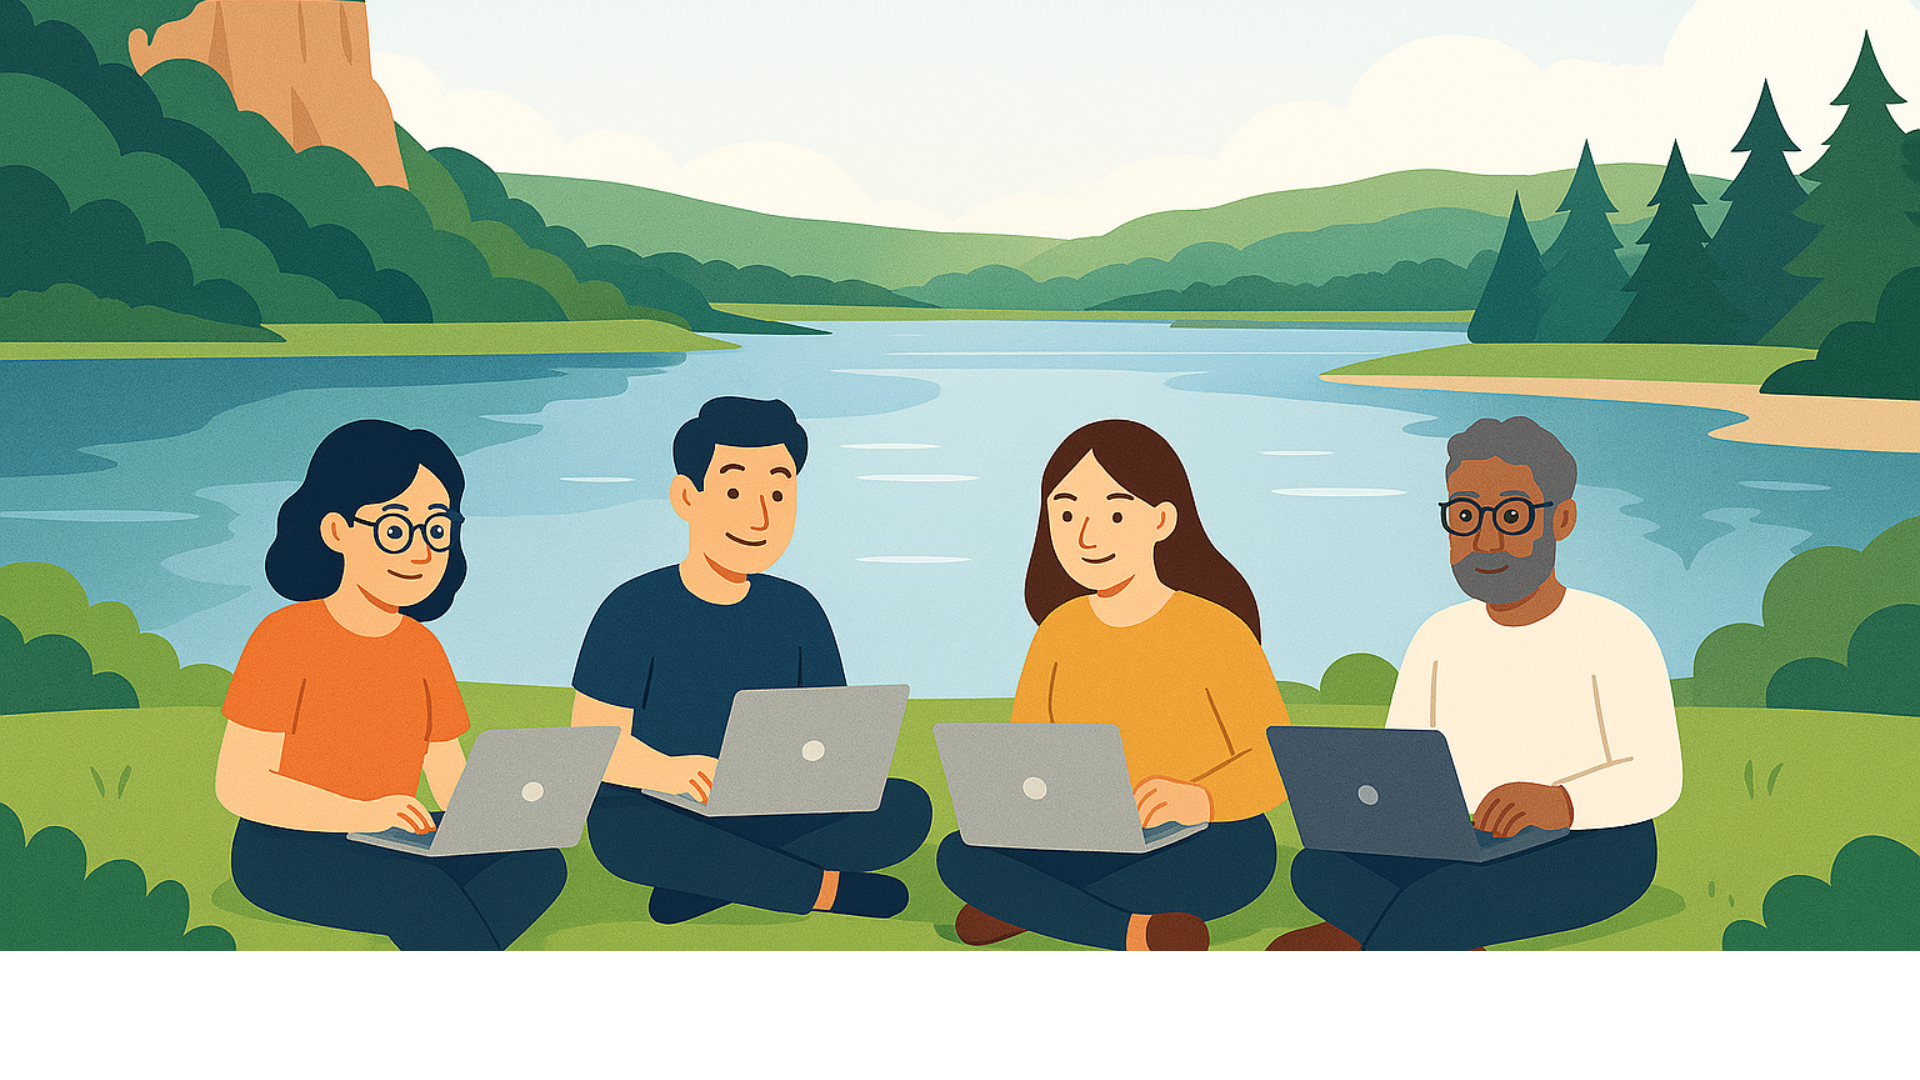
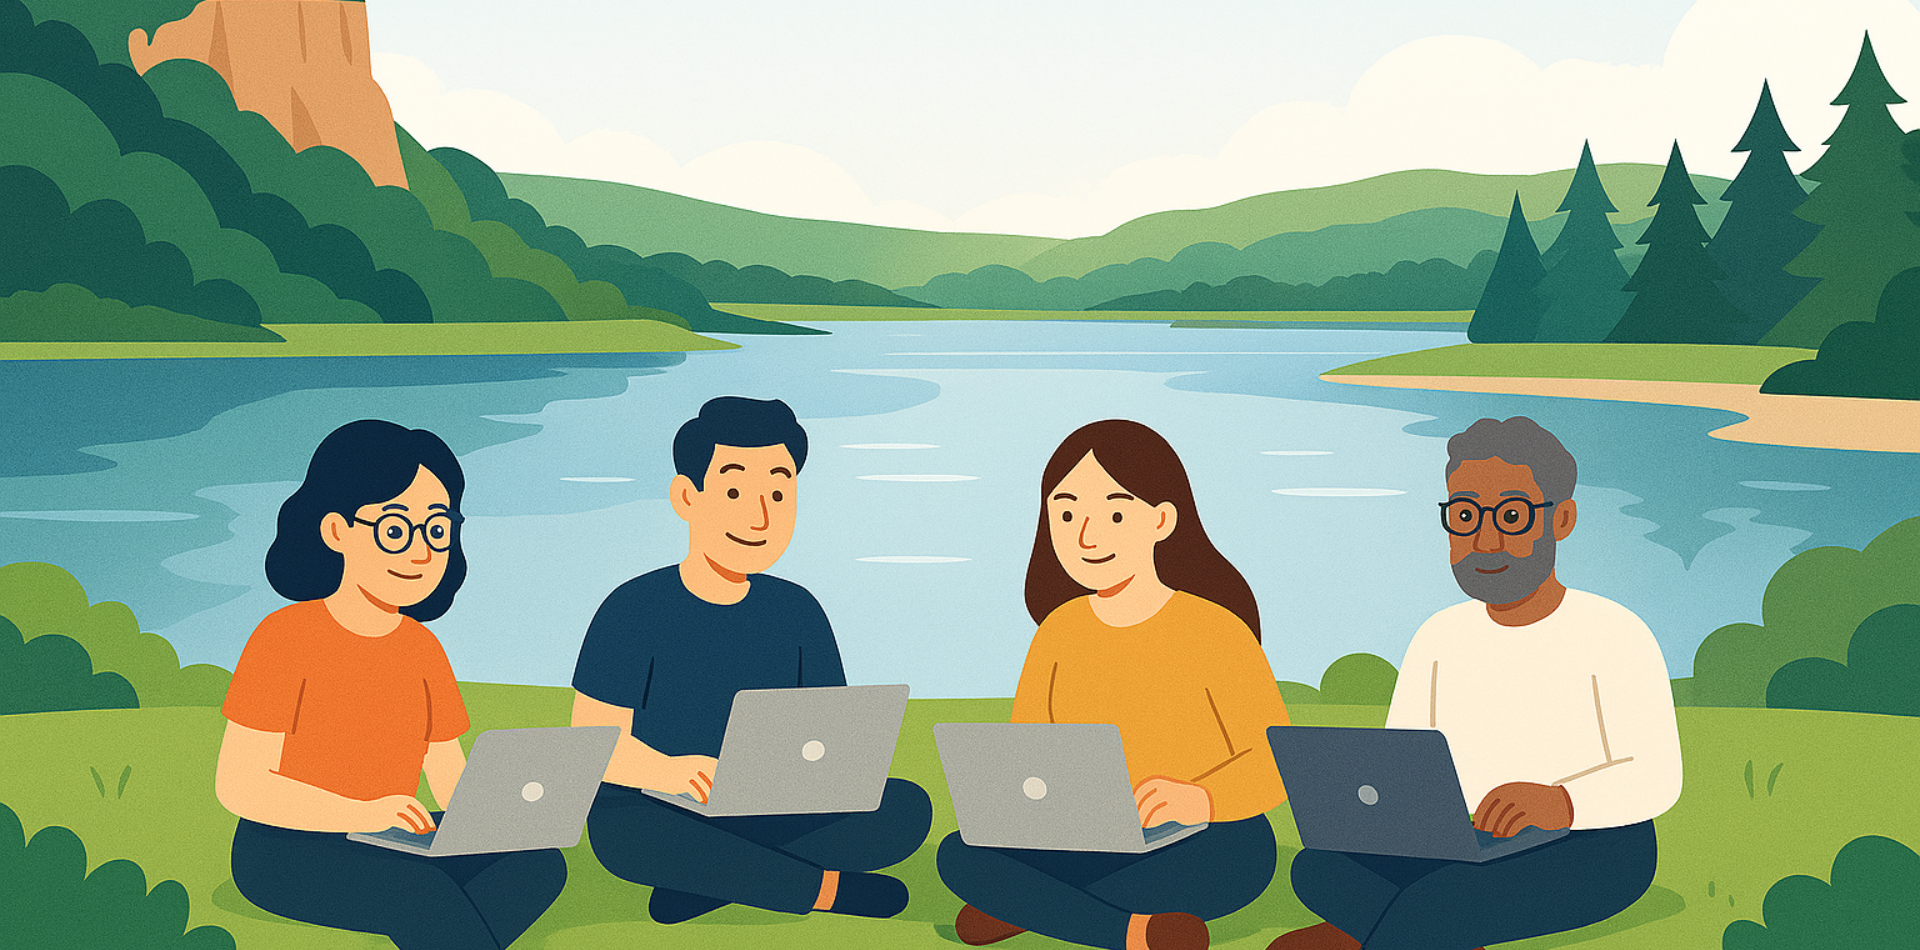
Initial Client Report V1

diff --git a/lab3.2/index.html b/lab3.2/index.html
@@ -1,53 +1,50 @@
 <!doctype html>
-<html>
+
+<html lang="en">
 
 <head>
     <meta charset="utf-8">
-    <title>Website Design Analysis</title>
-    <meta name="viewport" content="width=device-width">
+    <title>User Interface Design</title>
     <link rel="stylesheet" href="stylesheet.css">
 </head>
 
-<body>
-    <div id="container">
-        <header>
-            <h1>Design Principles</h1>
-            <p><i>Lab 3.2</i></p>
-        </header>
+<body id="main">
 
-        <div id="info">
-            <section>
-                <h2>Good Website Design</h2>
-                <a href="https://www.apple.com/" target="_blank"><img title="Click Here to Visit Website" src="good.png" width="50%"></a>
-                <div class="text">
-                    <p>This website exemplifies a <i>good</i> website:</p>
-                    <ul>
-                        <li>Easy navigation with links at top of the screen</li>
-                        <li>Uniform and clean layout</li>
-                        <li>Consistent colour palette across all pages and high contrast text and readable fonts</li>
-                    </ul>
-                </div>
-            </section>
+    <h1 id="title">Design Principles (Lab 3.2)</h1>
+    
+    <div id="info">
+        <section>
+            <h2>Good Website Design</h2>
+            <a href="https://www.apple.com/" target="_blank"><img title="Click Here to Visit Website" src="good.png"
+                    width="50%"></a>
+            <div class="text">
+                <p>This website exemplifies a <i>good</i> website:</p>
+                <ul>
+                    <li>Easy navigation with links at top of the screen</li>
+                    <li>Uniform and clean layout</li>
+                    <li>Consistent colour palette across all pages and high contrast text and readable fonts</li>
+                </ul>
+            </div>
+        </section>
 
-            <section>
-                <h2>Bad Website Design</h2>
-                <a href="https://www.art.yale.edu/" target="_blank"><img title="Click Here to Visit Website" src="bad.png" width="50%"></a>
-                <div class="text">
-                    <p>This website exemplifies a <i>bad</i> website:</p>
-                    <ul>
-                        <li>Lacks consistency in terms of overall theme, and colour</li>
-                        <li>Low readability due to poor contrast and overwhelming content</li>
-                    </ul>
-                </div>
+        <section>
+            <h2>Bad Website Design</h2>
+            <a href="https://www.art.yale.edu/" target="_blank"><img title="Click Here to Visit Website" src="bad.png"
+                    width="50%"></a>
+            <div class="text">
+                <p>This website exemplifies a <i>bad</i> website:</p>
+                <ul>
+                    <li>Lacks consistency in terms of overall theme, and colour</li>
+                    <li>Low readability due to poor contrast and overwhelming content</li>
+                </ul>
+            </div>
 
-            </section>
-        </div>
+        </section>
     </div>
 
     <footer>
         <p>&#169; 2026 compsci 1xd3 </p>
     </footer>
-
 
 </body>
 

diff --git a/project.html b/project.html
@@ -18,7 +18,50 @@
     </nav>
     <h1 class="pageTitle" style="text-align: center;">Client Report</h1>
 
-    <img style="text-align: center;" src="/Users/akilkanwar/Desktop/cs1xd3_team/images/gjsbdfjgnfjkgndf.jpeg" alt="">
+    <div id="report">
+
+        <h2>&#128204; Project Overview</h2>
+        <section class="project">
+            <p><b>Project Name: </b> "DriveSmart Driving School Web App"</p>
+            <p>The goal of the project involves designing and developing a web application for a local driving school instructor who is looking to make use of the web app(s) to improve their online presence, 
+                provide clear information to prospective students, and streamline the booking and communication process.</p>
+        </section>
+
+        <h2>&#127970; Client Information</h2>
+        <section class="project">
+            <p><b>Client:</b> Local Driving School Instructor</p>
+            <p><b>Industry:</b> Driver Education and Training Services</p>
+            <p>The client provides driving instruction to students preparing to obtain their Ontario driver’s license and is seeking a modern web presence to better advertise services and manage inquiries.</p>
+        </section>
+
+        <h2>&#127919; Target Users</h2>
+        <section class="project">
+            <p>The primary target users of the web app are <b>students</b> who want to learn how to drive. This includes new drivers as well as individuals seeking refresher lessons or driving test preparation.</p>
+        </section>
+
+        <h2>&#127912; Design Requirements</h2>
+        <section class="project">
+            <ul>
+                <li>The web app is intended to be responsive and accessible on both mobile and desktop devices</li>
+                <li>The web app’s design should remain on-brand and visually consistent with the client's existing marketing materials, such as by using the same color scheme as current marketing flyers</li>
+            </ul>
+        </section>
+
+        <h2>&#128241; Data and Functionality</h2>
+        <section class="project">
+            <p>The web app should manage and present the following static and dynamic information and interactive elements: </p>
+            <ul>
+                <li>General information about the driving school</li>
+                <li>Lesson packages and pricing details</li>
+                <li>Instructor information</li>
+                <li>Contact and inquiry details</li>
+                <li>A potential booking system that allows students to request or schedule driving lessons</li>
+                <li>Potential driving-themed animations, such as animations during page loading</li>
+            </ul>
+        </section>
+
+    </div>
+
 
     <footer>
         <p>&#169; 2026 compsci 1xd3 </p>

diff --git a/about.html b/about.html
@@ -21,23 +21,28 @@
 
     <div id="box">
 
-    <section>
+    <section class="about">
+        <img class="avatar" src="images/icon3.png" width="200px">
         <h3 id ="firstBox" class="name">Ayesha Hasan</h3>
+        <a class="portfolio" href="https://cs1xd3.cas.mcmaster.ca/~hasana51/" target="_blank">View Personal Portfolio</a>
     </section>
 
-    <section>
+    <section class="about">
+        <img class="avatar" src="images/icon4.png" width="200px">
         <h3 class="name">Akil Kanwar</h3>
-        <img >
+        <a class="portfolio">View Personal Portfolio</a>
     </section>
 
-    <section>
+    <section class="about">
+         <img class="avatar" src="images/icon2.png" width="200px">
         <h3 class="name">Anas Hayat</h3>
-        <img >
+        <a class="portfolio">View Personal Portfolio</a>
     </section>
 
-    <section>
+    <section class="about">
+         <img class="avatar" src="images/icon1.png" width="200px">
         <h3 id="lastBox" class="name">Udeshwar Sandhu</h3>
-        <img >
+        <a class="portfolio">View Personal Portfolio</a>
     </section>
     </div>
 

diff --git a/style.css b/style.css
@@ -12,6 +12,24 @@ body {
     background-size: cover;
 }
 
+.about {
+   text-align:center;
+   padding-bottom:20px;
+}
+
+.avatar {
+    margin-bottom:0;
+}
+
+.portfolio {
+    text-decoration:none;
+    color:white;
+}
+
+.portfolio:hover {
+    text-decoration:underline;
+}
+
 footer {
     position: fixed;
     margin-top: auto;
@@ -77,7 +95,7 @@ footer {
 }
 
 #box {
-    margin-top:20px;
+    margin-top:100px;
     padding-right:20px;
     padding-left:20px;
     display: flex;
@@ -95,13 +113,14 @@ footer {
 .name {
     text-align:center;
     font-size:25px;
+    margin-top:0;
 }
 
 #lab {
     background-color: #1C3A4B;
     color: white;
     padding: 20px;
-    margin-top: 20px;
+    margin-top: 100px;
     border-radius: 10px;
     margin-right: 20px;
     margin-left: 20px;
@@ -110,4 +129,19 @@ footer {
 
 #lab a {
     color: white;
+}
+
+#report {
+    color:#1C3A4B;
+    margin-right:20px;
+    margin-left:20px;
+    margin-bottom:100px;
+}
+
+.project {
+    background-color:#1C3A4B;
+    color:white;
+    padding:15px;
+    border-radius:15px;
+    font-size:18px;
 }

diff --git a/lab3.2/stylesheet.css b/lab3.2/stylesheet.css
@@ -2,23 +2,21 @@
     margin:0;
     padding:0;
 }
-#container {
-    height:100vh;
+#title{
+    font-size: 50px;
+    text-align: center;
+    margin-top: 20px;
+    ;
+    color: #1C3A4B;
+    margin-bottom: 0;
+    text-decoration: underline;
+    margin-bottom:20px;
 }
 
 body {
     font-family:'Segoe UI', Tahoma, Geneva, Verdana, sans-serif;
     background-color:#f1f8f3;
     color:#1C3A4B;
-}
-
-header {
-    width:100%;
-    text-align:center;
-    color:#f1f8f3;
-    background-color:#1C3A4B;
-    padding:40px;
-    margin-bottom:40px;
 }
 
 #info {
@@ -52,9 +50,13 @@ img {
 }
 
 footer {
-    width:100%;
-    text-align:center;
-    background-color:#1C3A4B;
-    color:#f1f8f3;
+    position: fixed;
+    margin-top: auto;
+    left: 0;
+    bottom: 0;
+    width: 100%;
+    text-align: center;
+    background-color: #1C3A4B;
+    color: white;
 
-   }
+}

diff --git a/index.html b/index.html
@@ -18,7 +18,7 @@ This is the Main Page for Cootes Coders
         </ul>
     </nav>
   <h1 id="mainTitle">Cootes Coders</h1>
-  <p id="slogan">Code. Learn. Ship.</p>
+  <p id="slogan"><b>Code. Learn. Ship.</b></p>
 
 <footer>
         <p>&#169; 2026 compsci 1xd3 </p>
